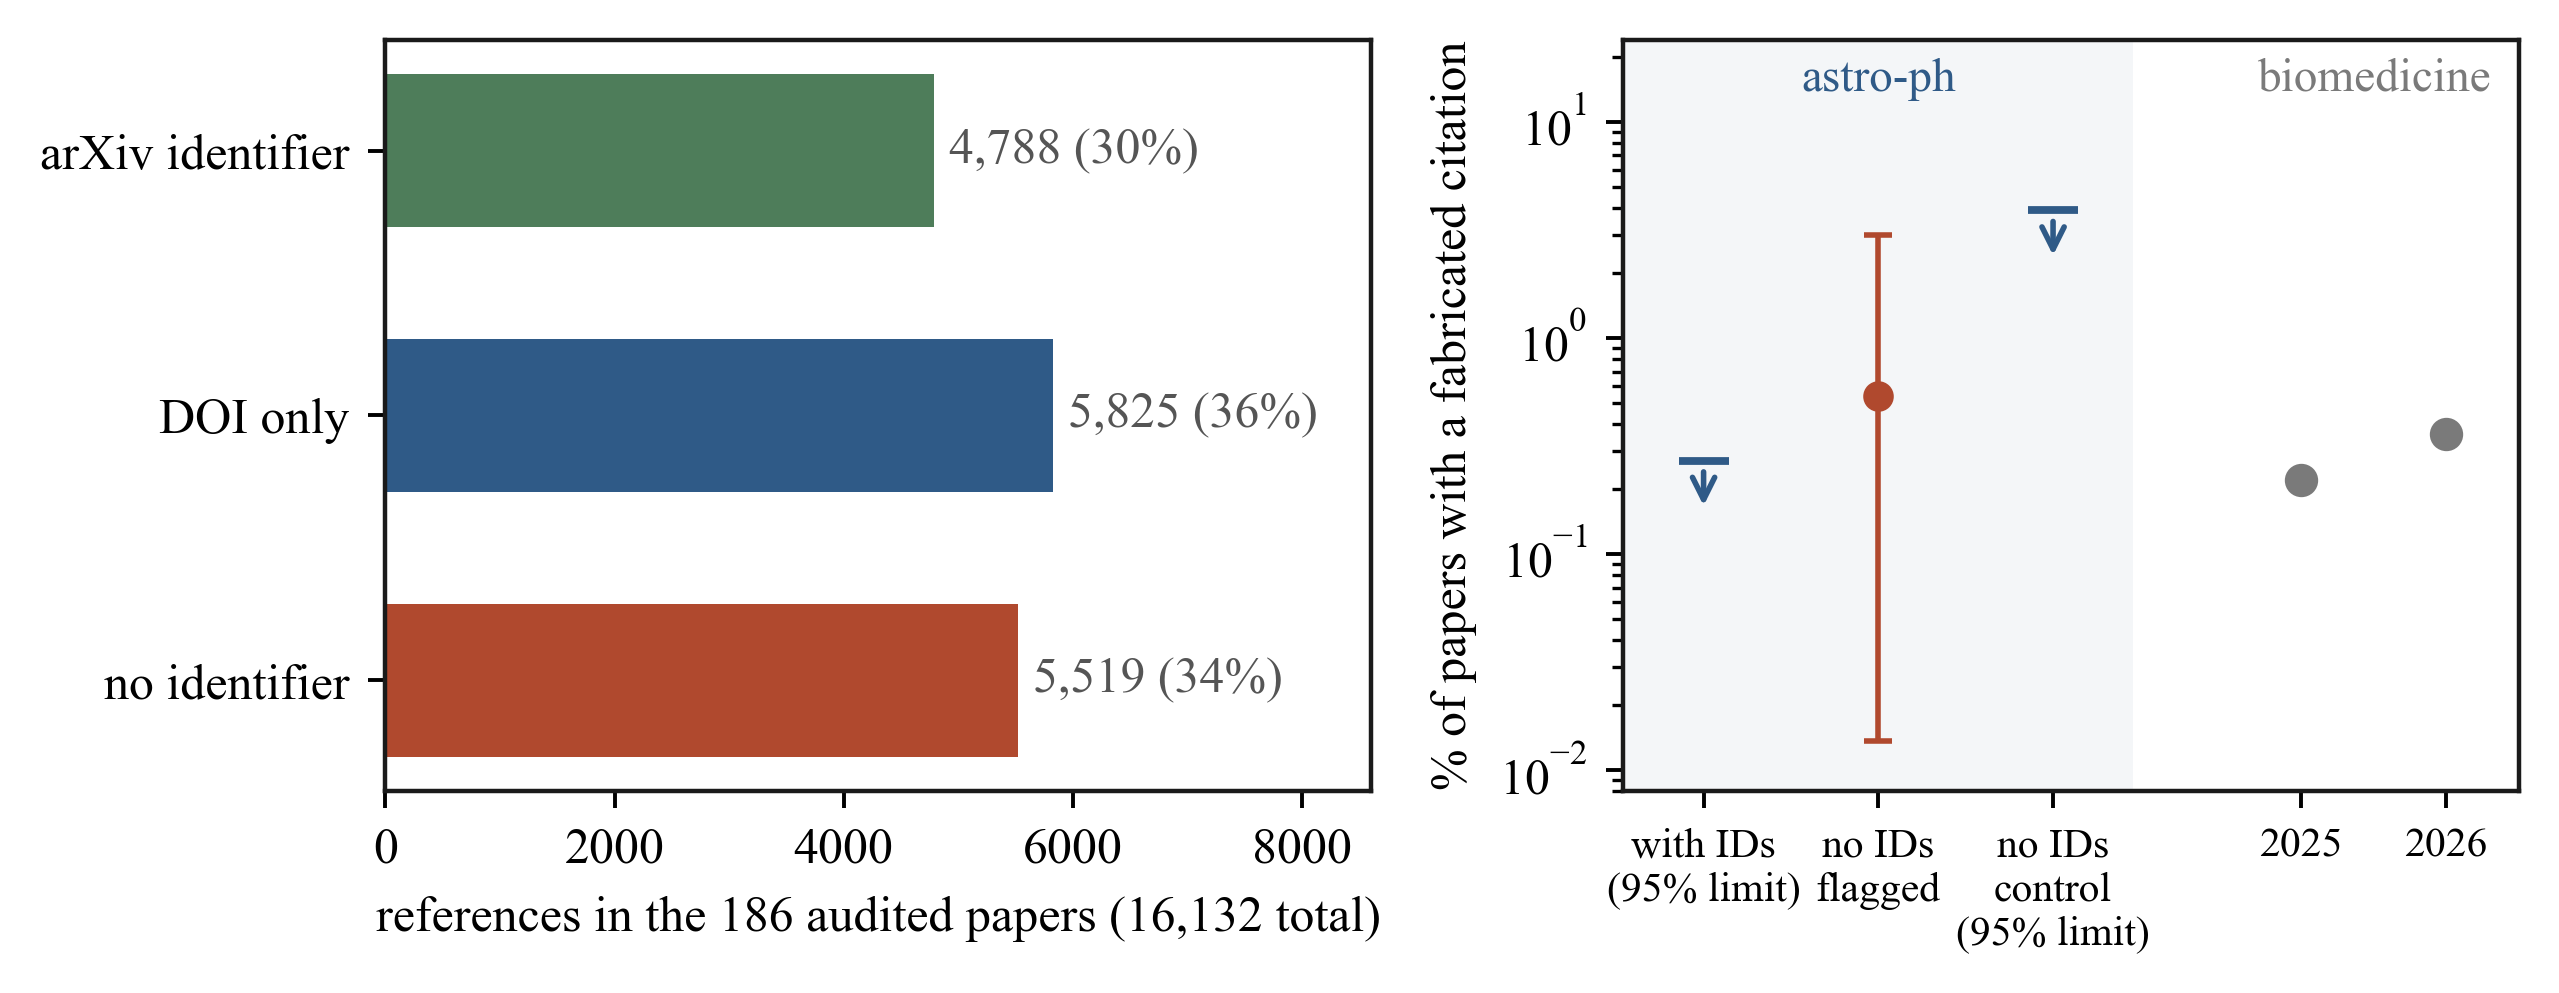
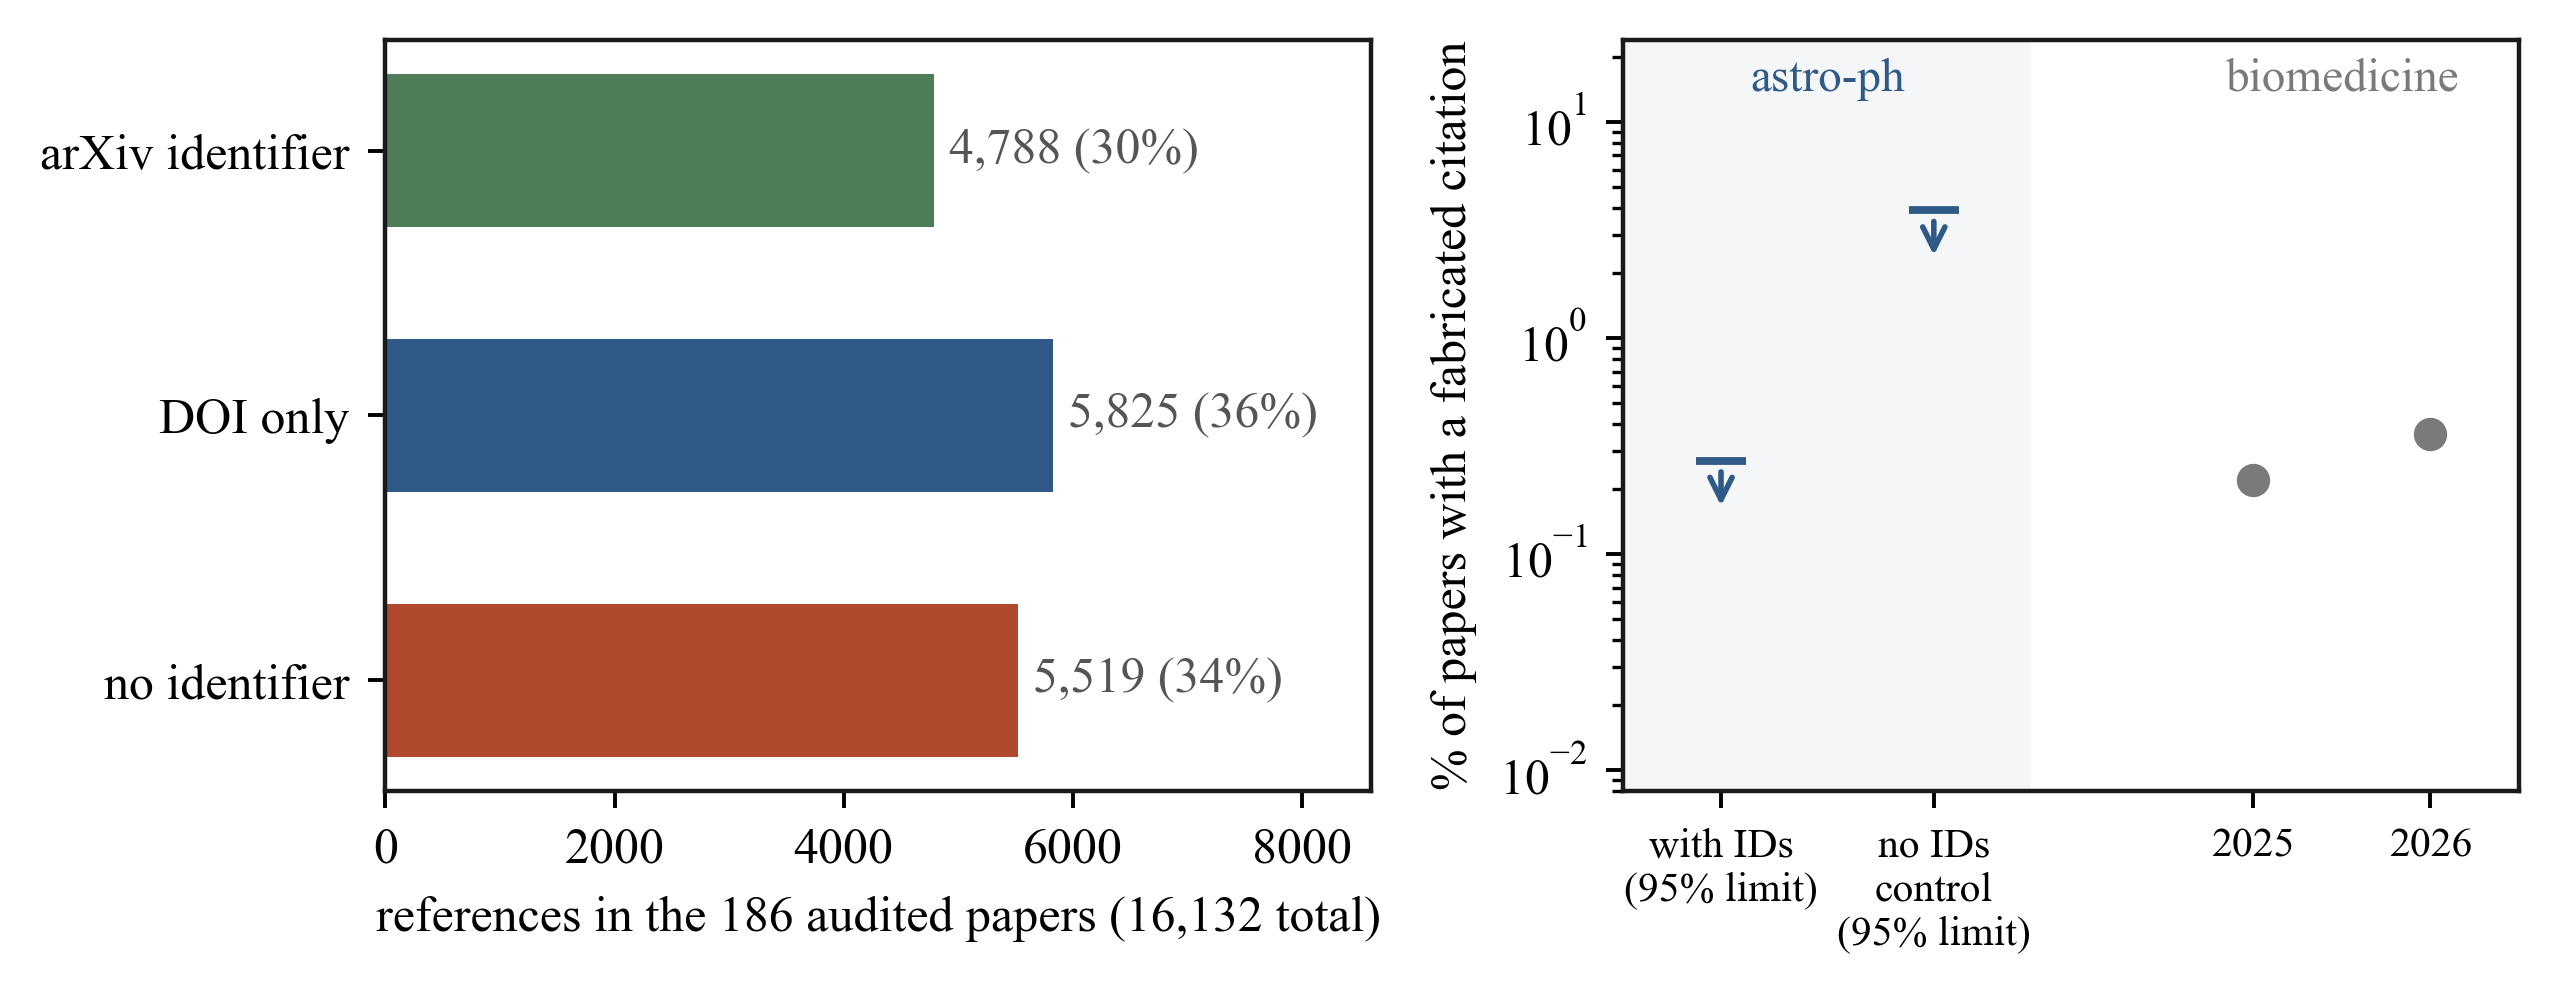
Figure revisions: dumbbell panel, first-author equity, citation panel
- fig3 panel (b): replace slopegraph with horizontal dumbbells, one row per
  matched pair, every word labelled, axis line under data only
- fig4 equity: first-author generator, no error bars, adaptive zoom, legend
  top-left, South Korea label; any-affiliation version to Extended Data
- fig5 gap: add year to the Liang et al. 2024 rows
- fig12 citation: drop the single-detection point with its wide interval,
  keep the two upper limits and the biomedical rates

diff --git a/src/plots3.py b/src/plots3.py
@@ -31,34 +31,70 @@ def fig10_subfield():
     fig.tight_layout(rect=[0,0.03,1,1])
     fig.savefig(os.path.join(FIGS, "fig10_subfield_diffusion.png"), bbox_inches="tight"); plt.close(fig)
 
-def fig11_geography():
-    g = json.load(open(os.path.join(DATA, "c4_geography.json")))
-    NATIVE = {"USA", "United Kingdom", "Australia", "Canada"}
-    import math
-    def wilson(k, n, z=1.96):
-        p = k/n; d = 1 + z*z/n
-        c = (p + z*z/(2*n))/d
-        h = z*math.sqrt(p*(1-p)/n + z*z/(4*n*n))/d
-        return c-h, c+h
-    rows = []
-    xerr_by = {}
-    for c, rec in g.items():
-        r = rec["2025"]
-        if r["total"] < 300:  # drop tiny-n noisy countries from the main view
+NATIVE = {"USA", "United Kingdom", "Australia", "Canada", "Ireland",
+          "New Zealand"}
+_COUNTRIES = ["USA", "United States", "China", "Germany", "United Kingdom",
+    "UK", "Italy", "France", "Japan", "Spain", "India", "Australia", "Canada",
+    "Netherlands", "Switzerland", "Brazil", "Korea", "Russia", "Iran",
+    "Sweden", "Poland", "Austria", "Belgium", "Mexico", "Chile", "Portugal",
+    "Israel", "Taiwan", "Denmark", "Norway", "Finland", "Turkey", "Greece",
+    "Czech", "Hungary", "Argentina", "South Africa", "Ireland", "New Zealand",
+    "Scotland", "England"]
+_ALIAS = {"United States": "USA", "UK": "United Kingdom",
+          "England": "United Kingdom", "Scotland": "United Kingdom"}
+
+
+def _country_of(aff):
+    import re
+    for c in _COUNTRIES:
+        if re.search(r"\b" + re.escape(c) + r"\b", aff, re.I):
+            return _ALIAS.get(c, c)
+    return None
+
+
+def _firstauthor_rows(min_n=200):
+    """Rows for the first-author equity figure: per-country marker incidence
+    (x) against writing-disclosure rate (y), from the enlarged disclosure set
+    joined to first-author affiliations. No error bars are used, so tiny
+    disclosure numerators no longer dominate the panel."""
+    import re
+    p13 = json.load(open(os.path.join(DATA, "p13_firstauthor.json")))["country_rows"]
+    enl = set(json.load(open(os.path.join(DATA, "p1c_enlarged.json")))["writing_ids_enlarged"])
+    tot, disc = {}, {}
+    for line in open(os.path.join(DATA, "p13_aff_cache.jsonl")):
+        rec = json.loads(line)
+        c = _country_of(rec.get("aff0") or "")
+        if not c:
             continue
-        rows.append((c, r["marker_pct"], r["disc_pct"], r["total"], c in NATIVE))
-        lo, hi = wilson(r["marker"], r["total"])
-        xerr_by[c] = (r["marker_pct"] - lo*100, hi*100 - r["marker_pct"])
+        tot[c] = tot.get(c, 0) + 1
+        base = re.sub(r"v\d+$", "", rec["id"])
+        if rec["id"] in enl or base in enl:
+            disc[c] = disc.get(c, 0) + 1
+    rows = []
+    for c, r in p13.items():
+        if r["n"] < min_n:
+            continue
+        n = tot.get(c, r["n"])
+        rows.append((c, r["pct"], disc.get(c, 0) / n * 100, r["n"], c in NATIVE))
+    return rows
+
+
+def _equity_figure(rows, outfile, ylabel):
     FS = 9.5                       # label font size
+    DISPLAY = {"Korea": "South Korea"}
+    rows = [(DISPLAY.get(c, c), mk, dc, n, nat) for (c, mk, dc, n, nat) in rows]
     fig, ax = plt.subplots(figsize=(6.5, 4.14))
     for (c, mk, dc, n, nat) in rows:
         col = C["blue"] if nat else C["vermillion"]
         ax.scatter(mk, dc, s=30+n/40, color=col, alpha=0.85, edgecolor="white",
                    linewidth=0.8, zorder=3)
     mks = [r[1] for r in rows]; dcs = [r[2] for r in rows]
-    xmax = max(mks) * 1.20
-    ylo, yhi = -0.06, 1.14
-    ax.set_xlim(0, xmax); ax.set_ylim(ylo, yhi)
+    xmin = max(min(mks) - 0.8, 0)
+    xmax = max(mks) * 1.06
+    ymax = max(dcs)
+    yhi = ymax * 1.14
+    ylo = -0.06 * yhi
+    ax.set_xlim(xmin, xmax); ax.set_ylim(ylo, yhi)
     ax.axvline(np.median(mks), color=C["grey"], ls=":", lw=1, zorder=1)
     ax.axhline(np.median(dcs), color=C["grey"], ls=":", lw=1, zorder=1)
 
@@ -67,7 +103,7 @@ def fig11_geography():
     axpos = ax.get_position()
     axw_in = fig.get_size_inches()[0] * axpos.width
     axh_in = fig.get_size_inches()[1] * axpos.height
-    dpx = xmax / axw_in
+    dpx = (xmax - xmin) / axw_in
     dpy = (yhi - ylo) / axh_in
     charw = FS * 0.60 / 72 * dpx          # per-character label width in data-x
     labh = FS * 1.30 / 72 * dpy           # label height in data-y
@@ -92,7 +128,7 @@ def fig11_geography():
         hx, hy = marker_half(n, c)
         marker_boxes.append((mk-hx, dc-hy, mk+hx, dc+hy))
     # fixed obstacles in data coords: legend (upper-left) and annotation (upper-right)
-    legend_box = (0.62*xmax, 0.86, xmax, yhi)   # legend sits upper right
+    legend_box = (xmin, 0.80*yhi, xmin + 0.34*(xmax-xmin), yhi)   # upper left
     annot_box  = (9e9, 9e9, 9e9, 9e9)   # no in-panel annotation any more
 
     def candidates(mk, dc, n, name):
@@ -120,7 +156,7 @@ def fig11_geography():
         for (lx, ly, ha, dcost) in candidates(mk, dc, n, c):
             box = lbox(c, lx, ly, ha)
             pen = dcost
-            if box[0] < 0.05 or box[2] > xmax-0.05 or box[1] < ylo+0.02 or box[3] > yhi-0.02:
+            if box[0] < xmin+0.05 or box[2] > xmax-0.05 or box[1] < ylo+0.02 or box[3] > yhi-0.02:
                 pen += 200
             for mb in marker_boxes:
                 if overlap(box, mb): pen += 15
@@ -154,13 +190,32 @@ def fig11_geography():
     print(f"fig11 label overlaps remaining: {probs}")
 
     ax.set_xlabel("LLM marker-word incidence, 2025 (% of papers)")
-    ax.set_ylabel("Explicit LLM disclosure, 2025 (% of papers)")
+    ax.set_ylabel(ylabel)
     from matplotlib.lines import Line2D
     ax.legend(handles=[Line2D([0],[0],marker='o',color='w',markerfacecolor=C["blue"],label='Native English',ms=9),
                        Line2D([0],[0],marker='o',color='w',markerfacecolor=C["vermillion"],label='Non-native English',ms=9)],
-              loc="upper right", fontsize=9)
-    footer(fig, "Data: NASA ADS aff: x abs:/ack: queries, 2025  |  aff: matches any affiliation (multi-country collabs double-counted)")
-    fig.savefig(os.path.join(FIGS, "fig11_equity_map.png"), bbox_inches="tight"); plt.close(fig)
+              loc="upper left", fontsize=9)
+    fig.savefig(os.path.join(FIGS, outfile), bbox_inches="tight"); plt.close(fig)
+
+
+def fig11_firstauthor_equity():
+    """Figure 4: first-author country marker rate vs writing-disclosure rate,
+    no error bars (the disclosure numerators are small)."""
+    _equity_figure(_firstauthor_rows(min_n=200), "fig11_equity_map.png",
+                   "Stated model use, 2025 (% of papers)")
+
+
+def fig11_geography():
+    """Extended Data: any-affiliation version of the equity map."""
+    g = json.load(open(os.path.join(DATA, "c4_geography.json")))
+    rows = []
+    for c, rec in g.items():
+        r = rec["2025"]
+        if r["total"] < 300:
+            continue
+        rows.append((c, r["marker_pct"], r["disc_pct"], r["total"], c in NATIVE))
+    _equity_figure(rows, "fig11_equity_anyaff.png",
+                   "Explicit LLM disclosure, 2025 (% of papers)")
 
 def fig13_crossref_taxonomy():
     """ED: classification of the 126 Crossref misses (all real works)."""
@@ -215,32 +270,31 @@ def fig12_citation_integrity():
     axL.set_xlim(0, 8600)
     axL.set_xlabel(f"references in the 186 audited papers ({tot:,} total)", fontsize=9)
 
-    # RIGHT: fabrication rate per paper, log scale; astronomy group (ID limit,
-    # flagged detection, unflagged control limit) set apart from biomedicine
-    cats = ["with IDs\n(95% limit)", "no IDs\nflagged", "no IDs\ncontrol\n(95% limit)",
+    # RIGHT: fabrication rate per paper, log scale. Astronomy upper limits
+    # (identifier-bearing and unflagged control) set apart from biomedicine.
+    # The single flagged detection is a sample of one with a huge Poisson
+    # interval, so it is described in the text rather than plotted here.
+    cats = ["with IDs\n(95% limit)", "no IDs\ncontrol\n(95% limit)",
             "2025", "2026"]
-    xs = [0, 1.2, 2.4, 4.1, 5.1]
+    xs = [0, 1.2, 3.0, 4.0]
     ul = st["per_paper_UL_pct"]
-    axR.axvspan(-0.55, 2.95, color=C["blue"], alpha=0.05, lw=0)
+    axR.axvspan(-0.55, 1.75, color=C["blue"], alpha=0.05, lw=0)
     axR.plot(0, ul, marker="_", ms=9, color=C["blue"], mew=1.4)
     axR.annotate("", xy=(0, ul*0.55), xytext=(0, ul),
                  arrowprops=dict(arrowstyle="->", color=C["blue"], lw=1.0))
-    # 1 detection in 186 papers: 0.54%, exact Poisson 95% interval 0.014-3.0%
-    axR.errorbar(1.2, 100/186, yerr=[[100/186 - 0.0136], [3.0 - 100/186]],
-                 fmt="o", ms=4.5, color=C["vermillion"], elinewidth=1.0, capsize=2.5)
     # 0 detections in the 77 control papers: one-sided 95% limit 3.0/77
     ulc = 100 * 3.0 / 77
-    axR.plot(2.4, ulc, marker="_", ms=9, color=C["blue"], mew=1.4)
-    axR.annotate("", xy=(2.4, ulc*0.55), xytext=(2.4, ulc),
+    axR.plot(1.2, ulc, marker="_", ms=9, color=C["blue"], mew=1.4)
+    axR.annotate("", xy=(1.2, ulc*0.55), xytext=(1.2, ulc),
                  arrowprops=dict(arrowstyle="->", color=C["blue"], lw=1.0))
-    axR.plot(4.1, 0.22, "o", ms=5, color=C["grey"])
-    axR.plot(5.1, 0.36, "o", ms=5, color=C["grey"])
+    axR.plot(3.0, 0.22, "o", ms=5, color=C["grey"])
+    axR.plot(4.0, 0.36, "o", ms=5, color=C["grey"])
     axR.set_yscale("log")
     no_minor_x(axR)
     axR.set_xticks(xs); axR.set_xticklabels(cats, fontsize=7.5)
-    axR.set_xlim(-0.55, 5.6); axR.set_ylim(0.008, 24)
-    axR.text(1.2, 14, "astro-ph", ha="center", fontsize=8.5, color=C["blue"])
-    axR.text(4.6, 14, "biomedicine", ha="center", fontsize=8.5, color=C["grey"])
+    axR.set_xlim(-0.55, 4.5); axR.set_ylim(0.008, 24)
+    axR.text(0.6, 14, "astro-ph", ha="center", fontsize=8.5, color=C["blue"])
+    axR.text(3.5, 14, "biomedicine", ha="center", fontsize=8.5, color=C["grey"])
     axR.set_ylabel("% of papers with a fabricated citation", fontsize=9)
 
     fig.tight_layout()
@@ -248,5 +302,6 @@ def fig12_citation_integrity():
 
 if __name__ == "__main__":
     fig10_subfield(); print("fig10 done")
-    fig11_geography(); print("fig11 done")
+    fig11_firstauthor_equity(); print("fig11 (first-author) done")
+    fig11_geography(); print("fig11 (any-aff, ED) done")
     fig12_citation_integrity(); print("fig12 done")

diff --git a/src/n2_fig.py b/src/n2_fig.py
@@ -20,9 +20,9 @@ def main():
     d = d[d.q >= 2022]
     dec = json.load(open(os.path.join(DATA, "n2_avoidance.json")))["decay"]
 
-    fig = plt.figure(figsize=(6.5, 5.6))
-    gs = fig.add_gridspec(2, 2, width_ratios=[1.25, 1], height_ratios=[1, 0.95],
-                          hspace=0.42, wspace=0.35)
+    fig = plt.figure(figsize=(6.9, 5.6))
+    gs = fig.add_gridspec(2, 2, width_ratios=[1.05, 1.02], height_ratios=[1, 0.95],
+                          hspace=0.42, wspace=0.32)
     axA = fig.add_subplot(gs[0, 0]); axB = fig.add_subplot(gs[0, 1])
     axC = fig.add_subplot(gs[1, :])
 
@@ -39,36 +39,33 @@ def main():
     axA.legend(loc="upper left", fontsize=8.5)
     axA.text(0.96, 0.95, "(a)", transform=axA.transAxes, fontsize=10, ha="right", va="top")
 
-    # (b) frequency-matched pairs, the analysis that decides the question
+    # (b) frequency-matched pairs as horizontal dumbbells, one row per pair.
+    # Each named word (red) is joined to its matched unnamed word (blue); the
+    # two decays overlap heavily, which is the null the text reports.
     p4 = json.load(open(os.path.join(DATA, "p4_freqmatched.json")))
-    pairs = p4["C_matched"]["pairs"]
-    def destack(vals, min_gap=6.5):
-        """Nudge label y-positions apart while keeping order."""
-        order = sorted(range(len(vals)), key=lambda i: vals[i])
-        out = list(vals)
-        for a, b in zip(order, order[1:]):
-            if out[b] - out[a] < min_gap:
-                out[b] = out[a] + min_gap
-        return out
-    lyL = destack([p["decay_named"] for p in pairs])
-    lyR = destack([p["decay_unnamed"] for p in pairs])
-    for pr, yl, yr in zip(pairs, lyL, lyR):
-        axB.plot([0, 1], [pr["decay_named"], pr["decay_unnamed"]], "-",
-                 color="#BBBBBB", lw=0.8, zorder=1)
-        axB.plot(0, pr["decay_named"], "o", ms=4.5, color=C["vermillion"], zorder=3)
-        axB.plot(1, pr["decay_unnamed"], "o", ms=4.5, color=C["blue"], zorder=3)
-        axB.text(-0.08, yl, pr["named"], fontsize=6.6,
-                 ha="right", va="center", color=C["vermillion"])
-        axB.text(1.08, yr, pr["unnamed"], fontsize=6.6,
-                 ha="left", va="center", color=C["blue"])
-    axB.axhline(0, color="#CCCCCC", lw=0.6)
-    no_minor_y(axB)
-    axB.set_xlim(-0.75, 1.85)
-    axB.set_xticks([0, 1])
-    axB.set_xticklabels(["Named,\n2024", "Matched\nunnamed"], fontsize=8.5)
-    axB.set_ylabel("Decay from peak by mid-2026 (%)")
-    axB.text(0.96, 0.04, "(b)", transform=axB.transAxes, fontsize=10,
-             ha="right", va="bottom")
+    pairs = sorted(p4["C_matched"]["pairs"], key=lambda pr: pr["decay_named"])
+    n = len(pairs)
+    for i, pr in enumerate(pairs):
+        xn, xu = pr["decay_named"], pr["decay_unnamed"]
+        axB.plot([xn, xu], [i, i], "-", color="#CCCCCC", lw=1.0, zorder=1)
+        axB.plot(xn, i, "o", ms=4.3, color=C["vermillion"], zorder=3)
+        axB.plot(xu, i, "o", ms=4.3, color=C["blue"], zorder=3)
+        axB.text(-7, i, pr["named"], fontsize=6.3, ha="right", va="center",
+                 color=C["vermillion"])
+        axB.text(147, i, pr["unnamed"], fontsize=6.3, ha="left", va="center",
+                 color=C["blue"])
+    axB.set_xlim(-72, 212)
+    axB.set_ylim(-0.8, n + 1.1)
+    axB.set_yticks([])
+    axB.set_xticks([0, 50, 100])
+    axB.spines["bottom"].set_bounds(0, 135)   # axis line under the data only
+    axB.set_xlabel("Decay from peak by mid-2026 (%)", fontsize=8.5, x=0.42)
+    axB.text(-38, n + 0.25, "Named, 2024", fontsize=7.6, ha="center",
+             va="bottom", color=C["vermillion"])
+    axB.text(178, n + 0.25, "Matched unnamed", fontsize=7.6, ha="center",
+             va="bottom", color=C["blue"])
+    axB.spines["left"].set_visible(False)
+    axB.text(60, n + 0.55, "(b)", fontsize=10, ha="center", va="bottom")
     # (c) timing test: decay follows publicity, not model releases
     import numpy as np
     wq = pd.read_csv(os.path.join(DATA, "n2_words.csv"))

diff --git a/src/plots.py b/src/plots.py
@@ -281,9 +281,9 @@ def fig5_gap():
     # (accent, lower bound -> right arrow), astro-ph disclosure (open circles)
     rows = [
         ("astro-ph, calibrated estimate",        44.0,    C["vermillion"], "cal"),
-        ("Computer science (Liang et al.)",     17.5,     C["grey"], "lit"),
+        ("Computer science (Liang et al., 2024)",     17.5,     C["grey"], "lit"),
         ("Biomedicine (Kobak et al., 2024)",    13.5,     C["grey"], "lit"),
-        ("Mathematics / Nature (Liang et al.)",  6.3,     C["grey"], "lit"),
+        ("Mathematics / Nature (Liang et al., 2024)",  6.3,     C["grey"], "lit"),
         ("astro-ph, marker-word lower bound",    est,     C["vermillion"], "lb"),
         ("astro-ph, writing disclosed in source", 1.78,    C["blue"], "open"),
         ("astro-ph, any AI mention in text",     disc_full, C["blue"], "open"),
